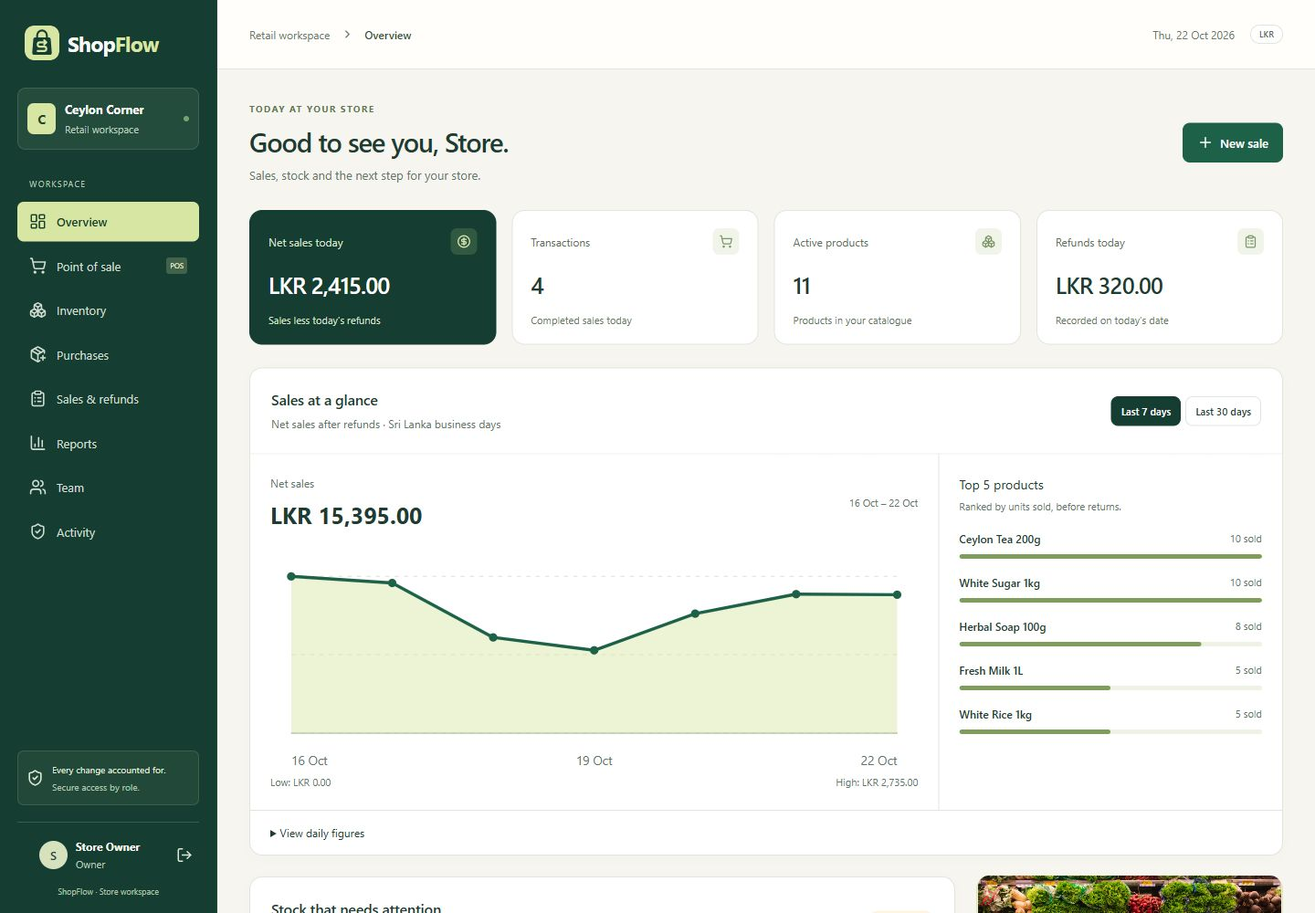
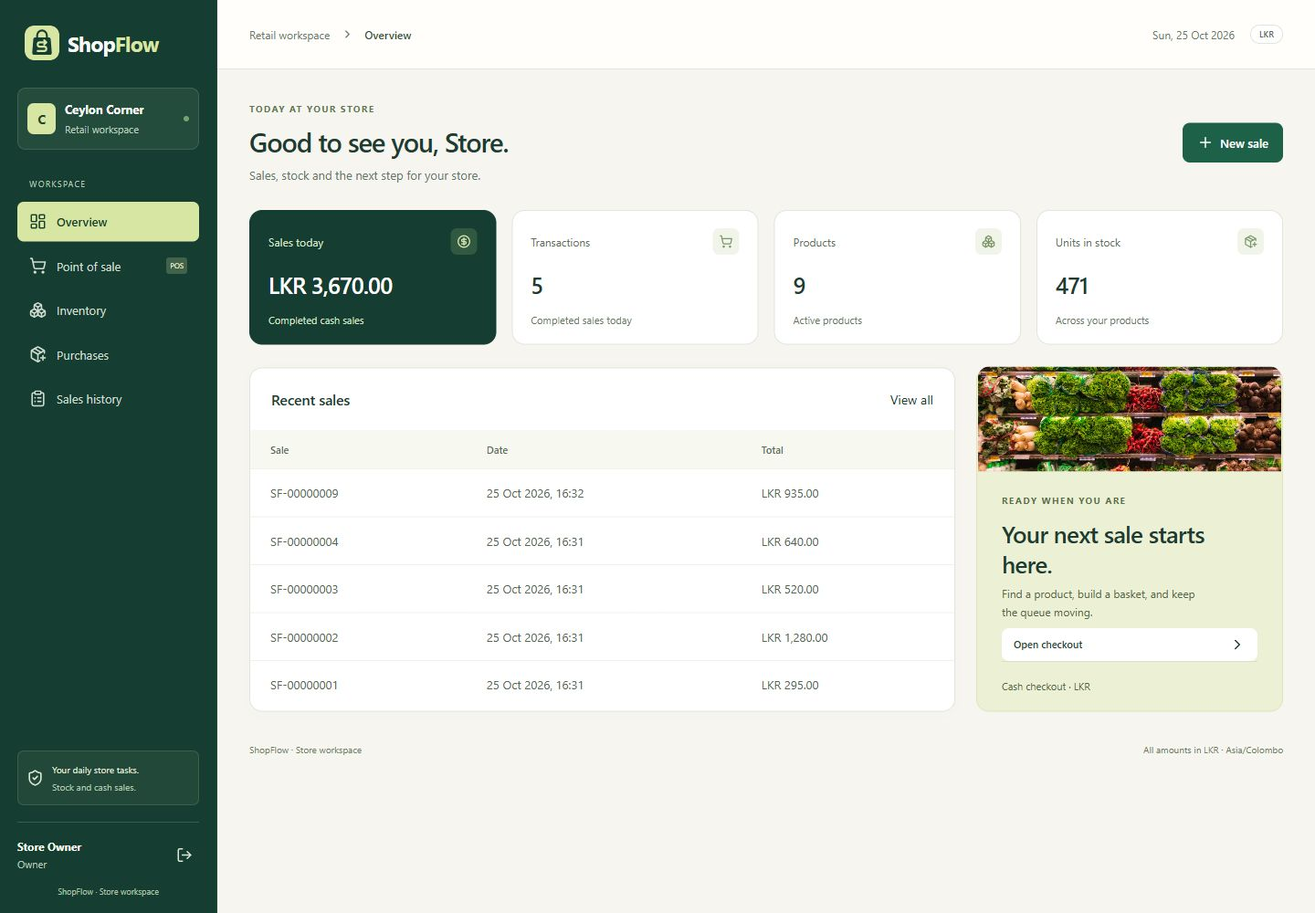
Refresh project galleries, case studies and internship CV

diff --git a/src/data.ts b/src/data.ts
@@ -25,83 +25,227 @@ export interface Project {
 }
 
 export const projects: Project[] = [
- {
-  title: 'Smart Attendance',
-  subtitle: 'From classroom check-in to a clear attendance record.',
-  category: 'Education · Web & mobile',
-  type: 'FULL-STACK ATTENDANCE APPLICATION',
-  kind: 'attendance',
-  author: 'tniketha',
-  stack: ['TypeScript', 'React Native', 'Expo', 'Express', 'MongoDB', 'Prisma', 'Socket.IO'],
-  description: 'A connected attendance workflow for students, lecturers, and administrators. Rotating QR check-ins feed live classroom rosters, while students track their progress and request reviewed corrections.',
-  problem: 'Manual roll calls interrupt classes, and disconnected records make follow-up difficult. I built a shared application that connects check-in, session management, reporting, and corrections across three user roles.',
-  highlights: ['Rotating QR check-in', 'Live lecturer rosters', 'Role-based access'],
-  features: [
-   'Signed, expiring QR codes with enrollment checks and duplicate prevention',
-   'Optional session location checks and separate student, lecturer, and administrator workflows',
-   'Live rosters, semester-based attendance insights, and CSV reports',
-   'Lecturer-reviewed correction requests with an audit history',
-   'Responsive layouts, light and dark themes, and shared web and mobile code'
-  ],
-  decisions: [
-   { title: 'Validate beyond the QR code.', description: 'The API checks the account, enrollment, session state, and configured location rules before accepting attendance. Transactions protect check-ins when a lecturer closes a session at the same time.' },
-   { title: 'Keep live views recoverable.', description: 'Authenticated Socket.IO updates keep lecturer rosters current, with polling recovery after a dropped connection. Approved corrections and their audit entries commit together.' }
-  ],
-  architecture: [
-   { name: 'React Native + Expo', role: 'Shared client for web, Android & iOS' },
-   { name: 'Express + Socket.IO', role: 'API, authorization & live updates' },
-   { name: 'Prisma + MongoDB', role: 'Sessions, attendance & audit records' }
-  ],
-  screenshots: [
-   { file: 'lecturer-dashboard-desktop.jpg', label: 'Lecturer', alt: 'Smart Attendance lecturer dashboard with an active Computer Architecture session', caption: 'Lecturer dashboard · Start sessions and follow attendance.' },
-   { file: 'live-qr-desktop.jpg', label: 'Live QR', alt: 'Smart Attendance rotating QR screen for a temporary classroom session', caption: 'Live QR · A short-lived code connects students to the current session.' },
-   { file: 'live-roster-desktop.jpg', label: 'Roster', alt: 'Smart Attendance live roster showing fictional present and late students', caption: 'Live roster · Check-ins appear in the lecturer’s session view.' },
-   { file: 'student-dashboard-mobile.jpg', label: 'Student', alt: 'Smart Attendance student dashboard at a phone-sized browser width', caption: 'Student dashboard · Responsive web view with demo attendance records.' },
-   { file: 'student-analytics-mobile.jpg', label: 'Insights', alt: 'Smart Attendance mobile web insights with a subject attendance breakdown', caption: 'Student insights · Explore attendance by subject and semester.' },
-   { file: 'admin-dashboard-desktop.jpg', label: 'Admin', alt: 'Smart Attendance administrator dashboard with a demonstration audit entry', caption: 'Administration · System activity and an attendance correction audit trail.' }
-  ],
-  scope: 'Built for web, Android, and iOS with Expo. Screenshots show the responsive web app with fictional demo records. QR and location checks reduce misuse but cannot prove physical presence; native device acceptance and institutional deployment are separate steps.',
-  repository: 'https://github.com/tniketha/SmartAttendance'
- },
- {
-  title: 'ShopFlow',
-  subtitle: 'Stock, sales, and the next step for a store.',
-  category: 'Retail · Responsive web',
-  type: 'FULL-STACK RETAIL WORKSPACE',
-  kind: 'shopflow',
-  author: 'tniketha',
-  stack: ['TypeScript', 'Next.js', 'React', 'Tailwind CSS', 'Fastify', 'PostgreSQL', 'Prisma'],
-  description: 'A retail workspace that brings inventory, purchasing, cash checkout, refunds, and reporting together. Built around clear store workflows, accurate LKR totals, and consistent stock records.',
-  problem: 'Purchases, sales, and returns all affect the same stock. I built a workspace that connects those operations, gives each store role the right tools, and keeps financial and inventory records consistent.',
-  highlights: ['Inventory & purchasing', 'Cash checkout & refunds', 'Sales insights & exports'],
-  features: [
-   'Product inventory, category filters, barcode lookup, favourites, and product photos',
-   'Supplier purchases and receiving with stock movement records',
-   'Cash checkout, PDF invoices, partial refunds, and stock restoration',
-   'Sales insights, low-stock alerts, and CSV/PDF reports using Sri Lanka business dates',
-   'CSV import with row-level validation and a preview before saving',
-   'Server-enforced owner, manager, and cashier permissions with business-isolated data'
-  ],
-  decisions: [
-   { title: 'Keep stock changes together.', description: 'Serializable PostgreSQL transactions commit checkout, purchase receipts, or refunds alongside their stock movements. Request keys protect successful operations from being recorded twice on retry.' },
-   { title: 'Make money calculations explicit.', description: 'Amounts use integer LKR cents. Sales retain the original product and price snapshots, while refunds enforce returned-quantity limits and restore stock atomically.' }
-  ],
-  architecture: [
-   { name: 'Next.js + React', role: 'Responsive store workspace' },
-   { name: 'Fastify', role: 'REST API, sessions & permissions' },
-   { name: 'Prisma + PostgreSQL', role: 'Transactions, stock & sales records' }
-  ],
-  screenshots: [
-   { file: '01-dashboard-desktop.jpg', label: 'Overview', alt: 'ShopFlow store dashboard with sample sales insights and low-stock information', caption: 'Store overview · Sales trends, top products, and stock at a glance.' },
-   { file: '03-pos-desktop.jpg', label: 'Checkout', alt: 'ShopFlow point of sale with photographed products and a two-item cash basket', caption: 'Point of sale · Product search, barcode entry, and a cash basket.' },
-   { file: '02-inventory-desktop.jpg', label: 'Inventory', alt: 'ShopFlow inventory catalogue with product filters, prices, and stock levels', caption: 'Inventory · A filterable catalogue with clear prices and stock status.' },
-   { file: '04-reports-desktop.jpg', label: 'Reports', alt: 'ShopFlow sales report with date filters and CSV and PDF export options', caption: 'Reports · Review sales and refunds for the selected business dates.' },
-   { file: '12-csv-import-desktop.jpg', label: 'CSV import', alt: 'ShopFlow CSV import preview flagging an invalid decimal price', caption: 'CSV import · Review row-level validation before saving products.' },
-   { file: '09-pos-mobile.jpg', label: 'Mobile', alt: 'ShopFlow point of sale at a phone-sized browser width', caption: 'Responsive checkout · The store workflow at a narrow web viewport.' }
-  ],
-  scope: 'A local full-stack project with cash payments and whole-unit inventory. Screenshots use fictional store data. The repository includes setup, tests, and deployment guidance; card payments and offline checkout are outside the current scope.',
-  repository: 'https://github.com/tniketha/ShopFlow'
- }
+  {
+    "title": "Smart Attendance",
+    "subtitle": "From a class QR code to a clear attendance record.",
+    "category": "Education · Web & mobile",
+    "type": "FULL-STACK ATTENDANCE APPLICATION",
+    "kind": "attendance",
+    "author": "tniketha",
+    "stack": [
+      "TypeScript",
+      "React Native",
+      "Expo",
+      "Express",
+      "MongoDB",
+      "Prisma"
+    ],
+    "description": "A university attendance application for students and lecturers. Lecturers start module-based classes and display a QR code; students check in and review their semester attendance.",
+    "problem": "Manual class registers take time and make semester follow-up difficult. I connected student check-in, lecturer class management, and attendance reporting through a shared interface and API.",
+    "highlights": [
+      "Class QR check-in",
+      "Student & lecturer workflows",
+      "Semester summaries & CSV"
+    ],
+    "features": [
+      "Sign in with an email or institutional ID, with separate student and lecturer screens",
+      "Select a semester and module, set the class duration, and display its QR code",
+      "Record present or late attendance with enrollment validation and one check-in per student per class",
+      "Refresh the class attendance list and close the class to mark missing enrolled students absent",
+      "View semester attendance statistics, filtered history, and enrolled modules",
+      "Review lecturer module reports and export attendance as CSV"
+    ],
+    "decisions": [
+      {
+        "title": "Check attendance on the server.",
+        "description": "The Express API verifies the QR token, active class, enrollment timing, and duplicate records. A database transaction coordinates check-in with class closure."
+      },
+      {
+        "title": "Count completed classes consistently.",
+        "description": "Closing or expiring a class records absences for missing enrolled students. Semester percentages count present and late records across completed classes, excluding active ones."
+      }
+    ],
+    "architecture": [
+      {
+        "name": "React Native + Expo",
+        "role": "Shared student and lecturer interface"
+      },
+      {
+        "name": "Express",
+        "role": "REST API, sign-in & attendance rules"
+      },
+      {
+        "name": "Prisma + MongoDB",
+        "role": "Modules, enrollment, classes & records"
+      }
+    ],
+    "screenshots": [
+      {
+        "file": "lecturer-dashboard-desktop.jpg",
+        "label": "Lecturer",
+        "alt": "Smart Attendance lecturer dashboard with semester modules and class controls",
+        "caption": "Lecturer dashboard · Choose a semester and module to start a class."
+      },
+      {
+        "file": "session-qr-desktop.jpg",
+        "label": "Class QR",
+        "alt": "Smart Attendance active class displaying its QR code",
+        "caption": "Class QR · Enrolled students scan while the class is active."
+      },
+      {
+        "file": "session-attendance-desktop.jpg",
+        "label": "Attendance",
+        "alt": "Smart Attendance class list with present and late demo students and a refresh button",
+        "caption": "Class attendance · Refresh the list to review student check-ins."
+      },
+      {
+        "file": "lecturer-reports-desktop.jpg",
+        "label": "Reports",
+        "alt": "Smart Attendance lecturer module attendance report",
+        "caption": "Module reports · Review attendance and export CSV records."
+      },
+      {
+        "file": "student-dashboard-mobile.jpg",
+        "label": "Student",
+        "alt": "Smart Attendance student dashboard at a mobile web width",
+        "caption": "Student dashboard · Semester modules and attendance at a glance."
+      },
+      {
+        "file": "student-attendance-mobile.jpg",
+        "label": "Summary",
+        "alt": "Smart Attendance My Attendance semester statistics on mobile web",
+        "caption": "My Attendance · Semester statistics from completed classes."
+      },
+      {
+        "file": "student-history-mobile.jpg",
+        "label": "History",
+        "alt": "Smart Attendance filtered student attendance history",
+        "caption": "Attendance history · Review records with semester and module filters."
+      },
+      {
+        "file": "student-modules-mobile.jpg",
+        "label": "Modules",
+        "alt": "Smart Attendance student enrolled modules by semester",
+        "caption": "My modules · Browse enrolled semester modules."
+      },
+      {
+        "file": "sign-in-mobile.jpg",
+        "label": "Sign in",
+        "alt": "Smart Attendance mobile web sign-in screen",
+        "caption": "Sign in · Use an email or institutional ID."
+      }
+    ],
+    "scope": "An undergraduate demonstration built with React Native and Expo, with web, Android, and iOS development targets. These are current browser captures using fictional university records. QR check-in is available only during an active class and does not prove physical presence.",
+    "repository": "https://github.com/tniketha/SmartAttendance"
+  },
+  {
+    "title": "ShopFlow",
+    "subtitle": "Add products. Receive stock. Complete a cash sale.",
+    "category": "Retail · Responsive web",
+    "type": "FULL-STACK INVENTORY & CASH SALES",
+    "kind": "shopflow",
+    "author": "tniketha",
+    "stack": [
+      "TypeScript",
+      "Next.js",
+      "React",
+      "Tailwind CSS",
+      "Fastify",
+      "PostgreSQL",
+      "Prisma"
+    ],
+    "description": "An inventory and cash-sales workspace for a small shop. Manage products and suppliers, receive purchases, complete cash checkout, and review saved sales in one responsive application.",
+    "problem": "Receiving stock and selling products must update the same inventory reliably. I built a clear product-to-purchase-to-sale workflow, with consistent stock records and accurate LKR amounts.",
+    "highlights": [
+      "Products & supplier purchases",
+      "Cash checkout & stock checks",
+      "Overview & sales history"
+    ],
+    "features": [
+      "Overview with today’s sales, transaction count, product count, units in stock, and recent sales",
+      "Search, add, edit, and archive products; manage categories and display product photos",
+      "Manage suppliers and receive purchases at a stated unit cost to increase stock",
+      "Choose products, enter whole-unit quantities and cash received, and save a sale",
+      "View saved sale numbers, dates, and totals in sales history",
+      "Session-based store isolation and owner/manager/cashier permissions enforced by the API"
+    ],
+    "decisions": [
+      {
+        "title": "Save stock and transactions together.",
+        "description": "Serializable PostgreSQL transactions save purchases or sales alongside stock changes. Conditional stock updates prevent overselling, and request keys let an uncertain request be retried without recording it twice."
+      },
+      {
+        "title": "Preserve accurate sale amounts.",
+        "description": "Prices use integer LKR cents, with decimal input parsed as text. Completed sales retain the product names and prices used at checkout, even when the catalogue changes."
+      }
+    ],
+    "architecture": [
+      {
+        "name": "Next.js + React",
+        "role": "Responsive forms and store screens"
+      },
+      {
+        "name": "Fastify",
+        "role": "REST API, sessions & input checks"
+      },
+      {
+        "name": "Prisma + PostgreSQL",
+        "role": "Atomic stock, purchases & cash sales"
+      }
+    ],
+    "screenshots": [
+      {
+        "file": "01-dashboard-desktop.jpg",
+        "label": "Overview",
+        "alt": "ShopFlow Ceylon Corner overview with daily sales, stock totals and recent sales",
+        "caption": "Overview · Today’s sales, transactions, products, stock, and recent sales."
+      },
+      {
+        "file": "02-inventory-desktop.jpg",
+        "label": "Inventory",
+        "alt": "ShopFlow current product inventory with photos, prices and stock",
+        "caption": "Inventory · Search and manage products, categories, and stock."
+      },
+      {
+        "file": "05-purchases-desktop.jpg",
+        "label": "Purchases",
+        "alt": "ShopFlow supplier purchase screen for receiving product stock",
+        "caption": "Purchases · Receive supplier stock at a stated unit cost."
+      },
+      {
+        "file": "03-pos-desktop.jpg",
+        "label": "Checkout",
+        "alt": "ShopFlow current cash checkout with products and basket",
+        "caption": "Point of sale · Select products, quantities, and cash received."
+      },
+      {
+        "file": "06-sales-desktop.jpg",
+        "label": "Sales history",
+        "alt": "ShopFlow saved sales history with sale numbers, dates and totals",
+        "caption": "Sales history · Review saved cash transactions."
+      },
+      {
+        "file": "08-dashboard-mobile.jpg",
+        "label": "Mobile overview",
+        "alt": "ShopFlow overview at a phone-sized browser width",
+        "caption": "Mobile overview · The same store totals in a responsive layout."
+      },
+      {
+        "file": "09-pos-mobile.jpg",
+        "label": "Mobile checkout",
+        "alt": "ShopFlow cash checkout at a phone-sized browser width",
+        "caption": "Mobile checkout · Build and save a cash sale on a narrow screen."
+      },
+      {
+        "file": "07-login-desktop.jpg",
+        "label": "Sign in",
+        "alt": "ShopFlow current sign-in screen with empty credential fields",
+        "caption": "Sign in · Access the store workspace with your account."
+      }
+    ],
+    "scope": "A local full-stack project supporting cash payments and whole-unit stock. Screenshots show fictional Ceylon Corner store records. The source includes fresh-database setup helpers and unit and PostgreSQL integration tests.",
+    "repository": "https://github.com/tniketha/ShopFlow"
+  }
 ];
 
 export const email = 'tn.niketha@gmail.com';

diff --git a/src/Sections.tsx b/src/Sections.tsx
@@ -25,7 +25,7 @@ export function Certificates() {
 
 function SectionTitle({number,label,title,accent,description}:{number:string,label:string,title:string,accent:string,description?:string}){return <Reveal className="section-heading"><div><p className="eyebrow">{number} / {label}</p><h2>{title} <span>{accent}</span></h2></div>{description&&<p className="section-description">{description}</p>}</Reveal>}
 function GithubMetrics(){const[data,setData]=useState<{repos:number,followers:number,updated:string}|null>(null);const[status,setStatus]=useState('Connecting to GitHub…');useEffect(()=>{const controller=new AbortController();const timeout=setTimeout(()=>controller.abort(),10000);fetch('https://api.github.com/users/tniketha',{signal:controller.signal}).then(r=>{if(!r.ok)throw Error();return r.json()}).then(d=>{if(typeof d.public_repos!=='number')throw Error();setData({repos:d.public_repos,followers:d.followers,updated:new Date().toLocaleTimeString([],{hour:'2-digit',minute:'2-digit'})});setStatus('Live from GitHub');}).catch(()=>setStatus('Live stats temporarily unavailable')).finally(()=>clearTimeout(timeout));return()=>{clearTimeout(timeout);controller.abort();}},[]);return <div className="github-metrics"><div className="metrics-top"><span><Github size={15}/> GITHUB PULSE</span><span className={data?'live':''}><span className="status-dot"/>{status}</span></div>{data?<div className="metrics-values"><div><strong>{data.repos.toString().padStart(2,'0')}</strong><span>Public repositories</span></div><div><strong>{data.followers.toString().padStart(2,'0')}</strong><span>Followers</span></div><a href="https://github.com/tniketha" target="_blank" rel="noreferrer">@tniketha <ArrowUpRight size={17}/><small>Checked {data.updated}</small></a></div>:<a className="text-link metrics-fallback" href="https://github.com/tniketha" target="_blank" rel="noreferrer">Explore @tniketha on GitHub <ArrowUpRight size={16}/></a>}</div>}
-export function About(){return <section className="section about" id="about"><SectionTitle number="01" label="THE PERSON BEHIND THE CODE" title="A CURIOUS MIND." accent="A BUILDER AT HEART."/><div className="about-grid"><Reveal className="about-copy"><p className="lead">Hello, I’m Nikky<span className="gold">.</span><br/>Always learning. Always making.</p><p>I’m a final-year Computer Science undergraduate at the University of Vavuniya, exploring the space where thoughtful software, intelligent systems, and real-world problems meet.</p><p>Building Smart Attendance and ShopFlow has helped me connect user interfaces, backend services, and data. I enjoy understanding how those pieces work together. My interests span machine learning, data analysis, and web development — with curiosity at the center of everything.</p><p>Alongside my degree, I’ve completed Sololearn courses in C, SQL, and technology, taken part in IEEEXtreme programming competitions, and joined Trailblazers ’24 for personal and professional development. <a className="about-certificate-link" href="#certificates">Explore my certificates <ArrowUpRight size={14}/></a></p><div className="about-facts"><div><GraduationCap size={19}/><span>B.Sc. (Hons) Computer Science<small>University of Vavuniya · Expected June 2027</small></span></div><div><MapPin size={19}/><span>Jaffna, Sri Lanka<small>Open to new opportunities</small></span></div></div><a className="button cv-button" href={`${import.meta.env.BASE_URL}Niketha-Thavaneswaran-CV.pdf?v=2027-internships-contact`} download>Download my CV <Download size={17}/></a></Reveal><Reveal><Tilt className="profile-card"><div className="profile-top"><span>THE HUMAN / 01</span><span className="status-dot"/></div><div className="profile-monogram"><span>N</span><span className="orbit-text">LEARN · BUILD · REPEAT</span><div className="profile-cross">+</div></div><div className="profile-bottom"><span>NIKETHA<br/>THAVANESWARAN</span><p>COMPUTER SCIENCE<br/>UNDERGRADUATE</p></div><span className="corner tl"/><span className="corner tr"/><span className="corner bl"/><span className="corner br"/></Tilt><GithubMetrics/></Reveal></div></section>}
+export function About(){return <section className="section about" id="about"><SectionTitle number="01" label="THE PERSON BEHIND THE CODE" title="A CURIOUS MIND." accent="A BUILDER AT HEART."/><div className="about-grid"><Reveal className="about-copy"><p className="lead">Hello, I’m Nikky<span className="gold">.</span><br/>Always learning. Always making.</p><p>I’m a final-year Computer Science undergraduate at the University of Vavuniya, exploring the space where thoughtful software, intelligent systems, and real-world problems meet.</p><p>Building Smart Attendance and ShopFlow has helped me connect user interfaces, backend services, and data. I enjoy understanding how those pieces work together. My interests span machine learning, data analysis, and web development — with curiosity at the center of everything.</p><p>Alongside my degree, I’ve completed Sololearn courses in C, SQL, and technology, taken part in IEEEXtreme programming competitions, and joined Trailblazers ’24 for personal and professional development. <a className="about-certificate-link" href="#certificates">Explore my certificates <ArrowUpRight size={14}/></a></p><div className="about-facts"><div><GraduationCap size={19}/><span>B.Sc. (Hons) Computer Science<small>University of Vavuniya · Expected June 2027</small></span></div><div><MapPin size={19}/><span>Jaffna, Sri Lanka<small>Open to new opportunities</small></span></div></div><a className="button cv-button" href={`${import.meta.env.BASE_URL}Niketha-Thavaneswaran-CV.pdf?v=20261025-current-projects`} download>Download my CV <Download size={17}/></a></Reveal><Reveal><Tilt className="profile-card"><div className="profile-top"><span>THE HUMAN / 01</span><span className="status-dot"/></div><div className="profile-monogram"><span>N</span><span className="orbit-text">LEARN · BUILD · REPEAT</span><div className="profile-cross">+</div></div><div className="profile-bottom"><span>NIKETHA<br/>THAVANESWARAN</span><p>COMPUTER SCIENCE<br/>UNDERGRADUATE</p></div><span className="corner tl"/><span className="corner tr"/><span className="corner bl"/><span className="corner br"/></Tilt><GithubMetrics/></Reveal></div></section>}
 
 export { Work, ProjectDetails } from './Work';
 const skills=[{icon:Code2,no:'01',label:'WEB & MOBILE DEVELOPMENT',title:'Connected experiences.',text:'Building web and mobile interfaces with React, Next.js, and Expo, with Express and Fastify APIs backed by MongoDB and PostgreSQL.',tags:['TypeScript','React','Next.js','React Native','Expo','Express','Fastify','PostgreSQL','MongoDB'],className:'wide'},{icon:BrainCircuit,no:'02',label:'PYTHON & MACHINE LEARNING',title:'Learning from data.',text:'Exploring intelligent systems through experimentation, model training, and evaluation.',tags:['Python','Scikit-learn','Classification','Neural networks','Model evaluation'],className:''},{icon:Database,no:'03',label:'DATA & DISCOVERY',title:'Clarity in complexity.',text:'Cleaning, exploring, and visualizing datasets to make their patterns understandable.',tags:['Pandas','NumPy','Matplotlib','SQL','Database design'],className:''},{icon:Cpu,no:'04',label:'COMPUTING FOUNDATIONS',title:'Beyond the surface.',text:'Understanding how things work — from algorithms and processor instructions to parallel computing.',tags:['Java','MIPS Assembly','Data structures','MPI','CUDA concepts'],className:'wide'}];

diff --git a/src/Work.tsx b/src/Work.tsx
@@ -6,7 +6,7 @@ import type { Project, ProjectScreenshot } from './data';
 import './work.css';
 
 function screenshotPath(project: Project, shot: ProjectScreenshot) {
- return `${import.meta.env.BASE_URL}projects/${project.kind}/${shot.file}`;
+ return `${import.meta.env.BASE_URL}projects/${project.kind}/${shot.file}?v=20261025`;
 }
 
 function ScreenshotGallery({ project }: { project: Project }) {

diff --git a/scripts/cv_layout.py b/scripts/cv_layout.py
@@ -81,7 +81,7 @@ def build_cv(root: Path):
     section('TECHNICAL SKILLS')
     text('<b>Languages:</b> TypeScript, Python, Java, C, SQL, JavaScript, HTML, CSS, PHP')
     text('<b>Frontend:</b> React, Next.js, React Native, Expo, Tailwind CSS')
-    text('<b>Backend &amp; databases:</b> Node.js, Express, Fastify, Prisma, Socket.IO, PostgreSQL, MongoDB, MySQL')
+    text('<b>Backend &amp; databases:</b> Node.js, Express, Fastify, Prisma, PostgreSQL, MongoDB, MySQL')
     text('<b>Tools &amp; practices:</b> Git, GitHub, REST APIs, role-based access, database transactions, integration testing')
     text('<b>Data &amp; machine learning:</b> Pandas, NumPy, Matplotlib, Scikit-learn, Jupyter Notebook')
 
@@ -89,22 +89,22 @@ def build_cv(root: Path):
     story.append(AlignedLine('<b>ShopFlow</b> | Retail web application', 'Sole developer', body))
     text('Next.js, React, TypeScript, Tailwind CSS, Fastify, PostgreSQL, Prisma | '
          '<link href="https://github.com/tniketha/ShopFlow">github.com/tniketha/ShopFlow</link>', 'meta')
-    bullet('Built a responsive retail workspace for inventory, supplier purchases, barcode-assisted cash checkout, '
-           'partial refunds, PDF invoices, and sales reporting.')
+    bullet('Built a responsive inventory and cash-sales application with product and category management, '
+           'supplier purchases, cash checkout, an overview dashboard, and sales history.')
     bullet('Implemented Fastify REST APIs, PostgreSQL transactions, and owner, manager, and cashier permissions '
            'to keep stock updates consistent and isolate business data.')
     bullet('Protected retries with unique request keys and represented amounts in integer LKR cents '
            'to prevent duplicate transactions and monetary rounding errors.')
     story.append(Spacer(1, 7))
     story.append(AlignedLine('<b>Smart Attendance</b> | Web and mobile application', 'Sole developer', body))
-    text('React Native, Expo, TypeScript, Express, MongoDB, Prisma, Socket.IO | '
+    text('React Native, Expo, TypeScript, Express, MongoDB, Prisma | '
          '<link href="https://github.com/tniketha/SmartAttendance">github.com/tniketha/SmartAttendance</link>', 'meta')
-    bullet('Built student, lecturer, and administrator workflows using shared React Native and Expo code '
-           'for web, Android, and iOS.')
-    bullet('Implemented signed, expiring QR check-ins with enrollment validation, duplicate prevention, '
-           'and optional location checks through an Express API.')
-    bullet('Delivered Socket.IO live rosters with polling recovery, semester-based attendance insights, '
-           'CSV exports, and audited correction requests.')
+    bullet('Built student and lecturer workflows with React Native and Expo, connecting semester modules, '
+           'class QR check-in, and attendance history to an Express API.')
+    bullet('Validated active-class QR tokens, enrollment timing, and duplicate check-ins on the server; '
+           'used MongoDB transactions to coordinate check-in with class closure.')
+    bullet('Implemented present, late, and absent records, lecturer-refreshed class lists, semester statistics, '
+           'filtered student history, and module CSV exports.')
 
     certificates = json.loads((root / 'src/certificates.json').read_text(encoding='utf-8'))
     section('COURSES &amp; CERTIFICATES')

diff --git a/public/projects/README.md b/public/projects/README.md
@@ -1,14 +1,15 @@
-# Project screenshots
+# Current project screenshots
 
 Project author and owner: **tniketha**.
 
-These original JPEG captures are copied without alteration from the project's own repository. They show fictional demonstration data, not real customers or measured adoption. Mobile screens are responsive web captures, not native device photographs.
+All 17 current JPEG screenshots are copied byte-for-byte from the published project repositories. Earlier gallery images have been replaced. Records are fictional demonstration data; mobile captures are responsive browser views.
 
-| Local folder | Source | Source commit |
+| Local folder | Source | Verified source commit |
 | --- | --- | --- |
-| `attendance/` | [SmartAttendance screenshot gallery](https://github.com/tniketha/SmartAttendance/tree/95a859ce6c7f978a0855c89203302dee8b3590b7/docs/screenshots) | `95a859ce6c7f978a0855c89203302dee8b3590b7` |
-| `shopflow/` | [ShopFlow screenshot gallery](https://github.com/tniketha/ShopFlow/tree/f09e839c57d869aba0a0fd3f672e48afda358b27/docs/screenshots) | `f09e839c57d869aba0a0fd3f672e48afda358b27` |
+| attendance/ (9 screens) | [SmartAttendance gallery](https://github.com/tniketha/SmartAttendance/tree/d2a47b0e1c731906acd4d5e4c3ee0752f6df0e78/docs/screenshots) | d2a47b0e1c731906acd4d5e4c3ee0752f6df0e78 |
+| shopflow/ (8 screens) | [ShopFlow gallery](https://github.com/tniketha/ShopFlow/tree/67175859babe6a43082543f96abfb8bd7674fba1/docs/screenshots) | 67175859babe6a43082543f96abfb8bd7674fba1 |
 
-Smart Attendance includes lecturer tools, a temporary session QR, a live roster, student views, and administration. ShopFlow includes overview, checkout, inventory, reports, CSV preview, and mobile checkout. The source repositories contain the complete galleries and project case studies.
+Smart Attendance: sign-in, student dashboard, semester summary, history, modules, lecturer dashboard, class QR, attendance list, and module reports.
+ShopFlow: overview, inventory, cash checkout, purchases, sales history, sign-in, mobile overview, and mobile checkout.
 
-Third-party packages and product photographs retain their respective licenses and credits. ShopFlow photography credits are documented in its [PHOTOS.md](https://github.com/tniketha/ShopFlow/blob/f09e839c57d869aba0a0fd3f672e48afda358b27/docs/PHOTOS.md).
+Third-party packages and photographs retain their licenses. [ShopFlow asset credits](https://github.com/tniketha/ShopFlow/blob/67175859babe6a43082543f96abfb8bd7674fba1/docs/ASSETS.md).

diff --git a/README.md b/README.md
@@ -19,7 +19,7 @@ Create a production build with `npm run build`. Preview that build with `npm run
 - Accessible terminal dialog (`Ctrl/Cmd + K`): `help`, `cat about.txt`, `ls projects`, `skills`, `contact`, `theme`, `clear`, and `exit`.
 - Live public GitHub repository and follower counts, with a graceful unavailable state.
 - Smart Attendance and ShopFlow case studies with repository-backed features, engineering decisions, and direct source links.
-- Interactive screenshot galleries with six real application screens per project, full-size image links, and desktop/mobile views.
+- Interactive screenshot galleries with all current application screens (nine for Smart Attendance and eight for ShopFlow), full-size image links, and desktop/mobile views.
 - One-page internship CV with aligned section rules, education and expected graduation, technical skills, project evidence, courses, and participation.
 - Filterable certificate cards with confirmed issuers, dates, credential IDs, team names, and original documents.
 - Contact form that prepares an email draft. It does not send messages or claim delivery.
